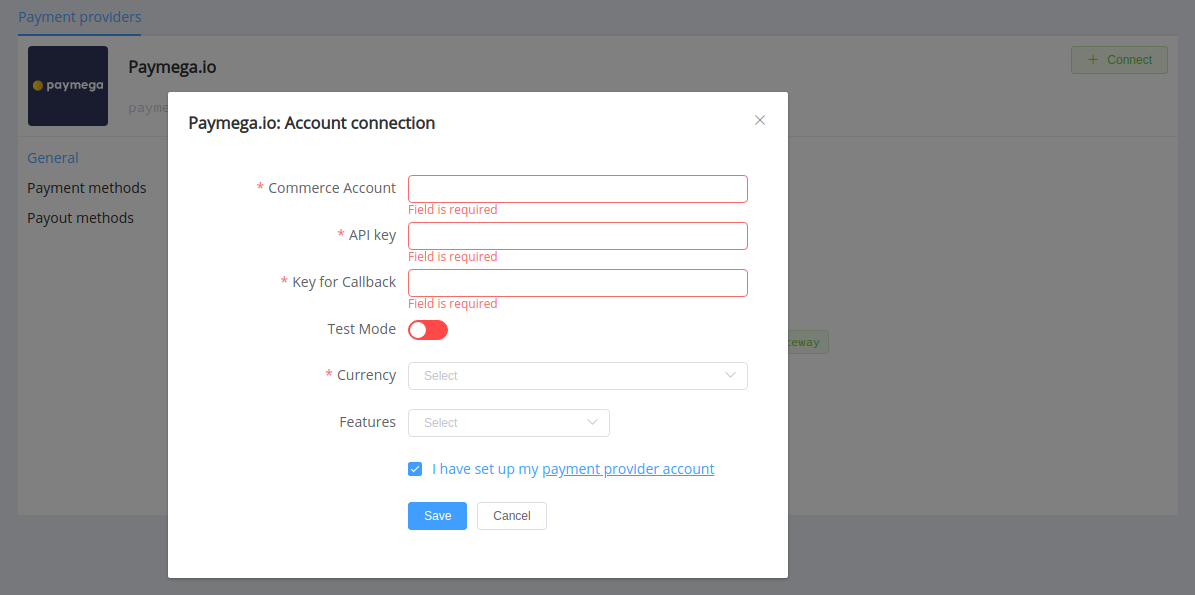
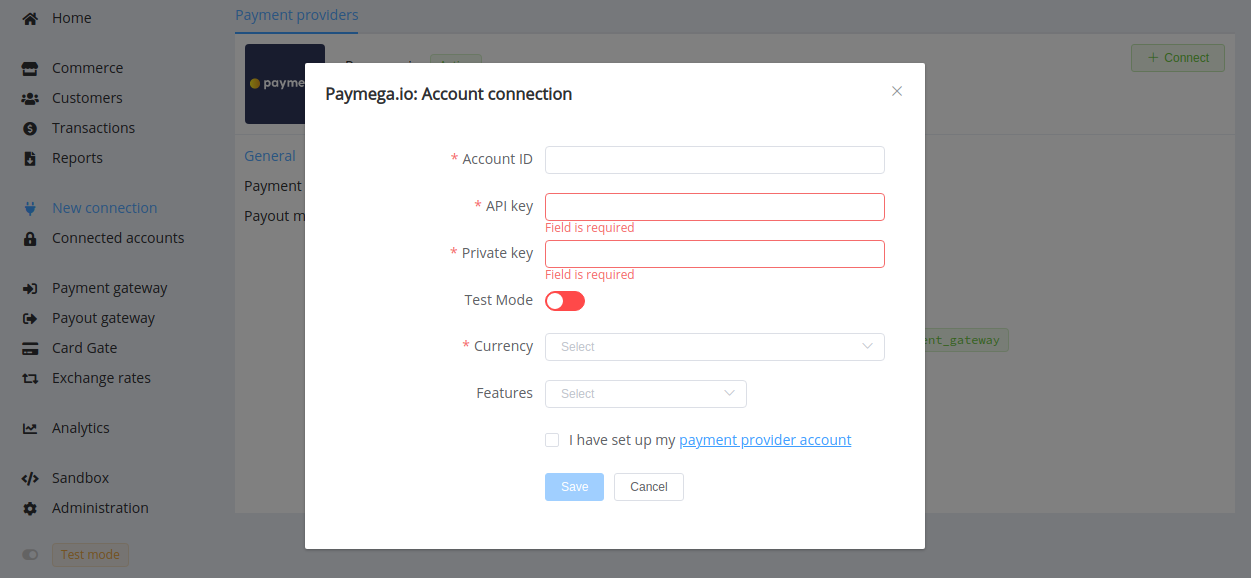
add kunapay, update paymegaio & transferhub guide

diff --git a/docs/connectors/kunapay/index.md b/docs/connectors/kunapay/index.md
@@ -1,0 +1,64 @@
+<img src="https://static.openfintech.io/payment_providers/kunapay/logo.svg?w=400" width="200px">
+
+# Kuna Pay
+
+> KUNA Pay is a crypto and fiat payments platform processing
+
+**Website**: [pay.kuna.io](https://pay.kuna.io/en)
+
+Follow the guidance for setting up a connection with Kuna Pay payment provider.
+
+## Set Up Account
+
+### Step 1: Leave the application to integrate
+
+Send a request on the [website](https://pay.kuna.io/en) and contact Kuna Pay support manager.
+
+### Step 2: Get credentials
+
+Credentials that have to be issued:
+
+- Account ID
+- API key
+- Private key &mdash; for Callback X-Signature
+
+## Connect Provider Account
+
+### Step 1. Connect account at the {{custom.company_name}} Dashboard
+
+Press **Connect** at [*Kuna Pay Provider Overview*]({{custom.dashboard_base_url}}connect-directory/payment-providers/paymegaio/general) page in *'New connection'* and choose **Provider account** option to open Connection form.
+
+![Connect](images/provider-account.png)
+
+Enter credentials:
+
+- Account ID
+- API key
+- Private key
+
+!!! success
+    You have connected **Kuna Pay** account!
+
+## Connect H2H Merchant Account
+
+### Step 1. Connect H2H account at the {{custom.company_name}} Dashboard
+
+Press **Connect** at [*Kuna Pay Provider Overview*]({{custom.dashboard_base_url}}connect-directory/payment-providers/paymegaio/general) page in *'New connection'* and choose **H2H Merchant account** option to open Connection form.
+
+![Connect](images/h2h-merchant-account.png)
+
+Enter credentials:
+
+- Account ID
+- API Key
+- Private key
+
+Choose Test Mode for test connection with Kuna Pay.
+
+Choose Currency and Features. You can set these parameters according to available currencies and features for your Kuna Pay account, but it is necessary to check details of the connection with your {{custom.company_name}} account manager..
+
+!!! success
+    You have connected **Kuna Pay** H2H merchant account!
+
+!!! question "Still looking for help connecting your Kuna Pay account?"
+    [Please contact our support team!](mailto:{{custom.support_email}})

diff --git a/docs/connectors/transferhub/index.md b/docs/connectors/transferhub/index.md
@@ -14,9 +14,9 @@ Contact TransferHub support manager, submit the required documents to verify you
 
 Credentials that have to be issued:
 
-* Your Commerce Account ID
+* Your Account ID
 * API Key
-* Callback Secret Key
+* Private key &mdash; for Callback X-Signature
 
 ## Connect Provider Account
 
@@ -28,9 +28,9 @@ Press **Connect** at [*TransferHub Provider Overview*]({{custom.dashboard_base_u
 
 Enter credentials:
 
-* Commerce Account ID
+* Account ID
 * API Key
-* Callback Secret Key
+* Private key
 
 !!! success
     You have connected **TransferHub** account!
@@ -45,9 +45,9 @@ Press **Connect** at [*TransferHub Provider Overview*]({{custom.dashboard_base_u
 
 Enter credentials:
 
-* Commerce Account ID
+* Account ID
 * API Key
-* Callback Secret Key
+* Private key
 
 Choose Test Mode for test connection with TransferHub.
 

diff --git a/docs/connectors/paymegaio/index.md b/docs/connectors/paymegaio/index.md
@@ -18,9 +18,9 @@ Send a request on the website and contact PayMega.io support manager.
 
 Credentials that have to be issued:
 
-- Commerce Account ID
+- Account ID
 - API key
-- Callback Secret key
+- Private key &mdash; for Callback X-Signature
 
 ## Connect Provider Account
 
@@ -32,9 +32,9 @@ Press **Connect** at [*PayMega.io Provider Overview*]({{custom.dashboard_base_ur
 
 Enter credentials:
 
-- Commerce Account ID
+- Account ID
 - API key
-- Callback Secret key
+- Private key
 
 !!! success
     You have connected **PayMega.io** account!
@@ -49,9 +49,9 @@ Press **Connect** at [*PayMega.io Provider Overview*]({{custom.dashboard_base_ur
 
 Enter credentials:
 
-- Commerce Account ID
+- Account ID
 - API Key
-- Callback Secret key
+- Private key
 
 Choose Test Mode for test connection with PayMega.io.
 
